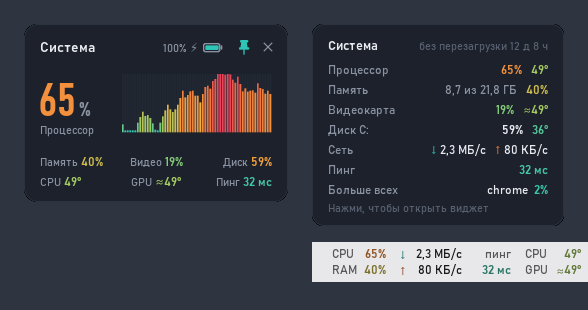
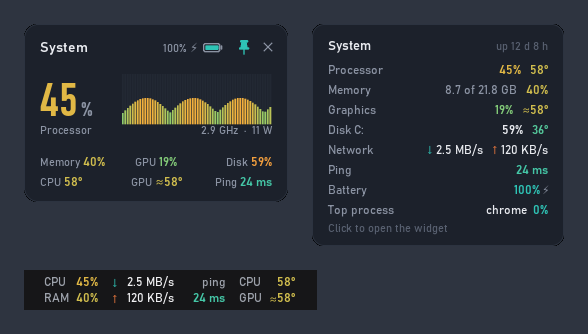
Version 1.3: English screenshots in the README, release notes
- docs/*.png re-rendered from the current drawing code in English: widget
  and process list, the four palettes (with custom colours), compact mode
  with the hover card and taskbar panel, history card and FPS counter
- APP_VERSION 1.3, docs/releases/v1.3.md (English and Russian)

diff --git a/docs/releases/v1.3.md b/docs/releases/v1.3.md
@@ -1,0 +1,30 @@
+**Download:** `PC-Monitor.zip` below → unpack anywhere → run `PC-Monitor.exe`.
+If you have 1.2, the widget shows "Version 1.3 is out" — a click opens this page. From 1.3 on, updates install in one click.
+
+## New
+- **Update in one click** — the widget downloads the new version, checks its SHA-256 against GitHub's and swaps it in after a restart; if anything fails, the old version starts again
+- **Settings window** with tabs instead of the long menu (right-click → "Settings…")
+- **Cores** — a bar per logical processor
+- **FPS counter**: 1% low and a frame-time graph where stutters are red
+- **Fans** — speeds, when the PC reports them
+- **Dims itself** while a game or a fullscreen video is in front
+- **Custom colours** — a gradient between two colours you pick
+- **Size** 100 / 125 / 150 %
+- 36 automated tests, run by GitHub before every build
+
+---
+
+**Скачать:** `PC-Monitor.zip` ниже → распаковать → запустить `PC-Monitor.exe`.
+
+## Новое
+- **Обновление в один клик** — виджет сам скачивает новую версию, сверяет SHA-256 с GitHub и подменяет себя; если что-то пошло не так, запускается старая версия
+- **Окно настроек** с вкладками вместо длинного меню (ПКМ → «Настройки…»)
+- **Ядра** — полоска на каждый поток процессора
+- **FPS**: 1% low и график времени кадра, фризы — красные
+- **Вентиляторы** — обороты, если компьютер их отдаёт
+- **Тускнеет** в играх и при видео на весь экран
+- **Свои цвета** — переход между двумя выбранными цветами
+- **Размер** 100 / 125 / 150 %
+- 36 автотестов, GitHub прогоняет их перед каждой сборкой
+
+Uses [LibreHardwareMonitorLib](https://github.com/LibreHardwareMonitor/LibreHardwareMonitor) (MPL-2.0, source at the link).

diff --git a/README.md b/README.md
@@ -10,13 +10,16 @@ Every value is coloured on one "cool → hot" scale: the redder, the higher the
 load or temperature. Three palettes to choose from, or your own two colours
 (Settings → Look → "Choose custom colours…"):
 
-![Palettes: Warm, Neon, Ice](docs/themes.png)
+![Palettes: Warm, Neon, Ice and custom colours](docs/themes.png)
 
 Compact mode, the hover card of the mini panel and the panel itself:
 
 ![Compact mode and the mini panel](docs/compact-and-taskbar.png)
 
-*(The screenshots show the Russian interface; the language can be switched.)*
+CPU history for the last hour or day, and the FPS counter in a game with the
+1% low and a frame-time graph (a red bar is a stutter):
+
+![History card and FPS counter](docs/history-and-fps.png)
 
 ## Features
 - **Processor** — the load and a histogram of the last minute, clock and
